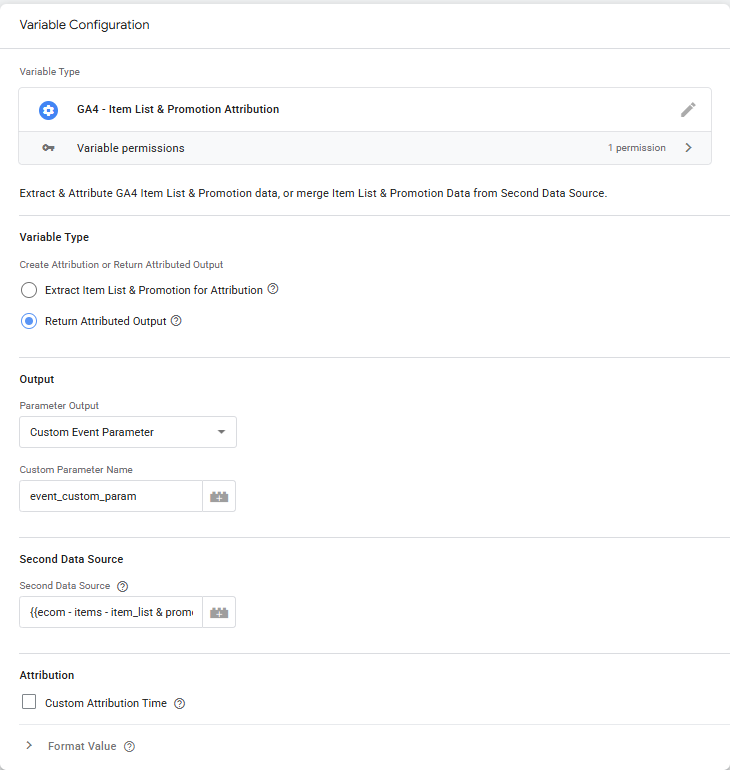
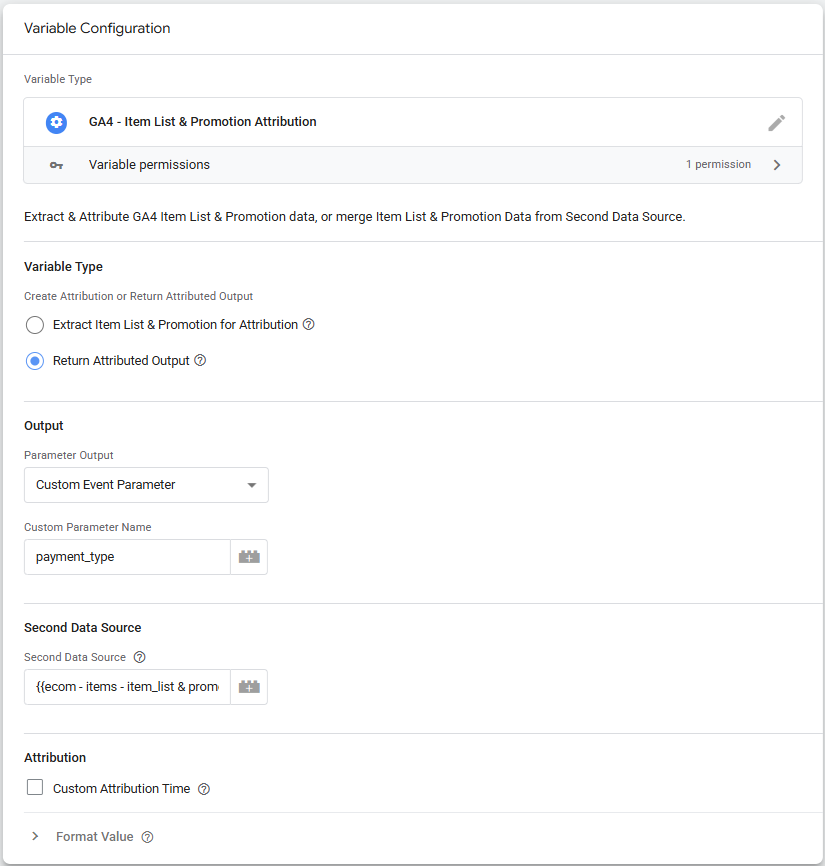
Custom Event Parameter attribution changes
Updated Event Data read permissions to specific keys and rebuilt Custom Event Parameter attribution logic.

diff --git a/template.js b/template.js
@@ -48,17 +48,17 @@ if(data.variableType === 'attribution') {
   let promotion_name = hasValue(getEventData('promotion_name')) ? getEventData('promotion_name') : undefined;
   let location_id = hasValue(getEventData('location_id')) ? getEventData('location_id') : undefined;
   let index = hasValue(getEventData('index')) ? getEventData('index') : undefined;
-
+  
   let currentCustomEvents = {};
-  if (customEventAttributeParameters.length > 0) {
-    customEventAttributeParameters.forEach(row => {
-      const pName = row.parameterName;
-      const pVal = getEventData(pName);
-      if (hasValue(pVal)) {
-        currentCustomEvents[pName] = pVal;
-      }
-    });
-  }
+    if (customEventAttributeParameters.length > 0) {
+      customEventAttributeParameters.forEach(row => {
+        const pName = row.parameterName;
+        const pVal = row.parameterValue;
+        if (hasValue(pVal)) {
+          currentCustomEvents[pName] = pVal;
+        }
+      });
+    }
 
   let mergedCustomEvents = {};
   
@@ -223,6 +223,18 @@ if(data.variableType === 'attribution') {
     extract = jsonData && extract ? JSON.stringify(extract) : extract;
     return extract;
   }
+  
+  const hasNewCustomEvents = Object.keys(currentCustomEvents || {}).length > 0;
+  if (hasNewCustomEvents) {
+    let extract = {
+      items: items2, 
+      promotion: promo2, 
+      search_term: searchTerm2, 
+      custom_events: mergedCustomEvents, 
+      timestamp: timestamp
+    };
+    return jsonData ? JSON.stringify(extract) : extract;
+  }
 }
 else if (data.variableType === 'output') {
   let output;
@@ -252,7 +264,6 @@ else if (data.variableType === 'output') {
       }
       
       if (data.itemCustomEvents) {
-        // FIX: Added fallback to empty object just in case
         const ceKeys = Object.keys(customEvents2 || {});
         if (ceKeys.length > 0) {
           ceKeys.forEach(k => {
@@ -260,6 +271,8 @@ else if (data.variableType === 'output') {
           });
         }
       }
+
+      const standardKeys = ['item_id', 'item_list_id', 'item_list_name', 'creative_name', 'creative_slot', 'promotion_id', 'promotion_name', 'location_id', 'index'];
 
       items2.forEach(item2 => {
         if (item.item_id === item2.item_id) {
@@ -272,9 +285,7 @@ else if (data.variableType === 'output') {
           item.location_id = item.location_id || item2.location_id || undefined;
           item.index = item.index || item2.index || undefined;
           
-          // FIX: Added fallback to empty object just in case
           const storedKeys = Object.keys(item2 || {});
-          const standardKeys = ['item_id', 'item_list_id', 'item_list_name', 'creative_name', 'creative_slot', 'promotion_id', 'promotion_name', 'location_id', 'index'];
           
           storedKeys.forEach(k => {
             if (standardKeys.indexOf(k) === -1) {

diff --git a/01-Firestore/README.md b/01-Firestore/README.md
@@ -196,7 +196,9 @@ Select the [**Firestore Writer with TTL** Tag](https://github.com/gtm-templates-
 
 #### Matching conditions
 
-* **{{Event Name}}** _matches RegEx_ ^(purchase|add_payment_info|add_shipping_info|begin_checkout|view_cart|add_to_cart|remove_from_cart|add_to_wishlist|view_item)$
+You must minimum add the events below, but you can add the attribution to ex. all the steps in the checkout if you like.
+
+* **{{Event Name}}** _matches RegEx_ ^(purchase|begin_checkout|add_to_cart)$
 
 #### Affected tags
 

diff --git a/02-Stape-Store/README.md b/02-Stape-Store/README.md
@@ -189,7 +189,9 @@ Select the [**Stape Store Writer** Tag](https://tagmanager.google.com/gallery/#/
 
 #### Matching conditions
 
-* **{{Event Name}}** _matches RegEx_ ^(purchase|add_payment_info|add_shipping_info|begin_checkout|view_cart|add_to_cart|remove_from_cart|add_to_wishlist|view_item)$
+You must minimum add the events below, but you can add the attribution to ex. all the steps in the checkout if you like.
+
+* **{{Event Name}}** _matches RegEx_ ^(purchase|begin_checkout|add_to_cart)$
 
 #### Affected tags
 
